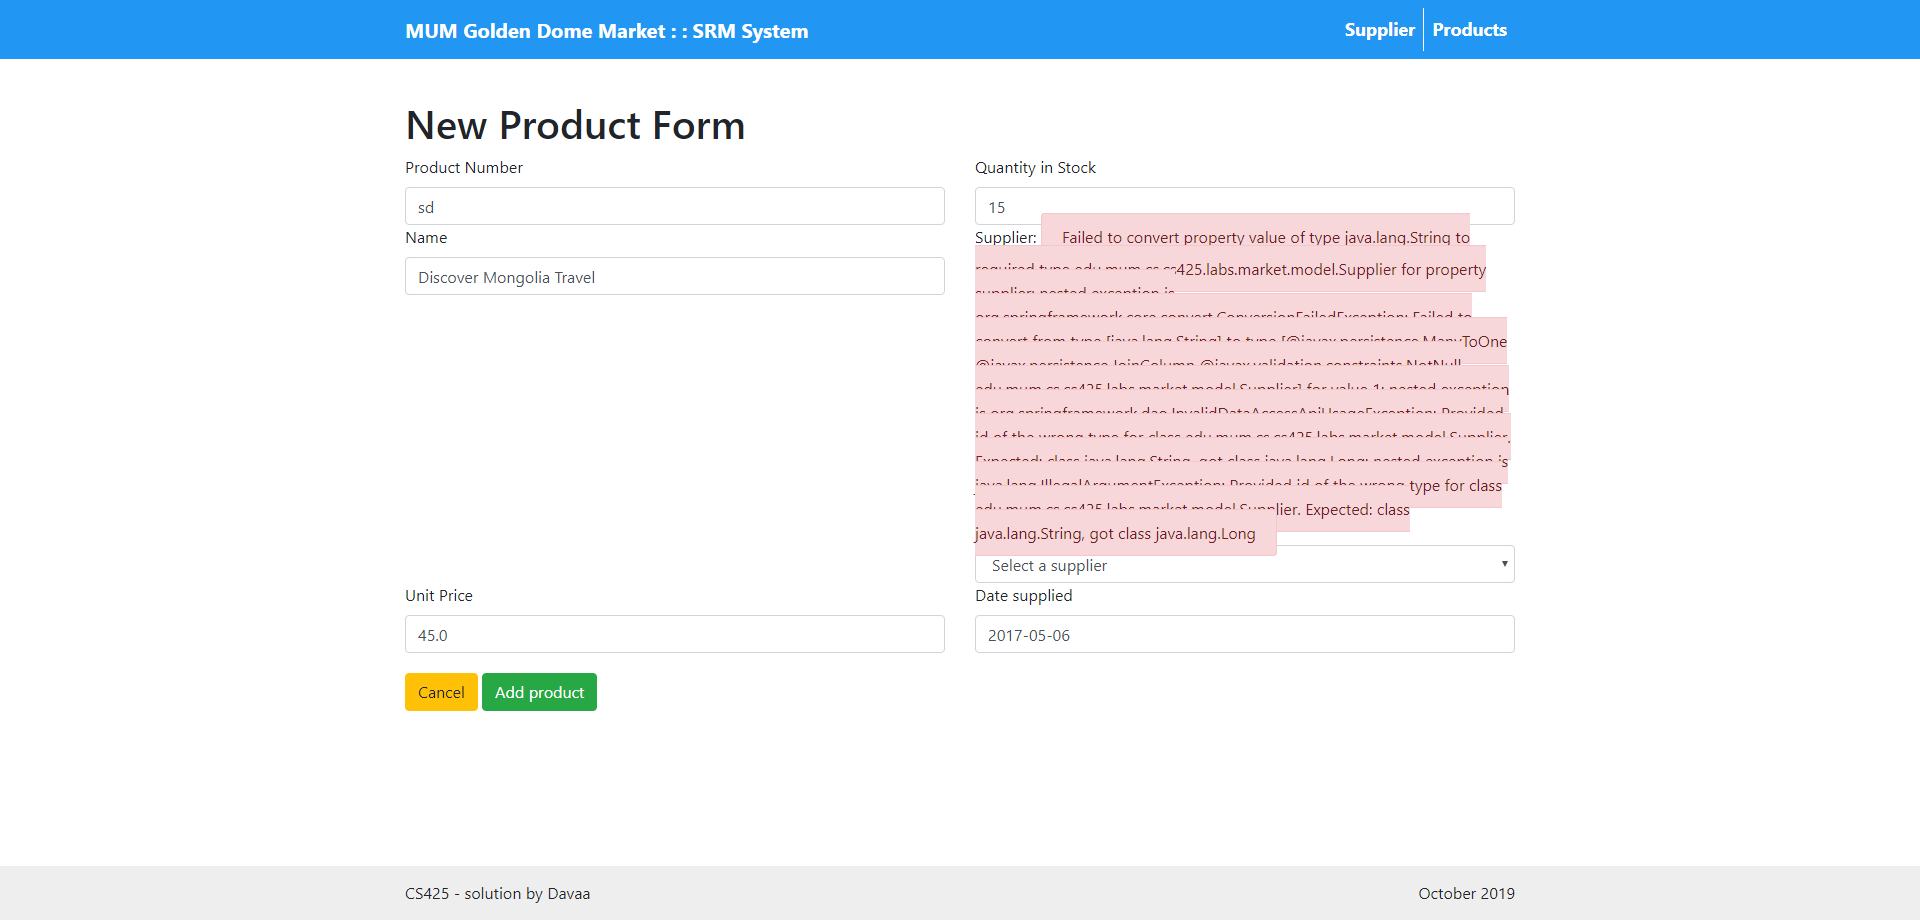
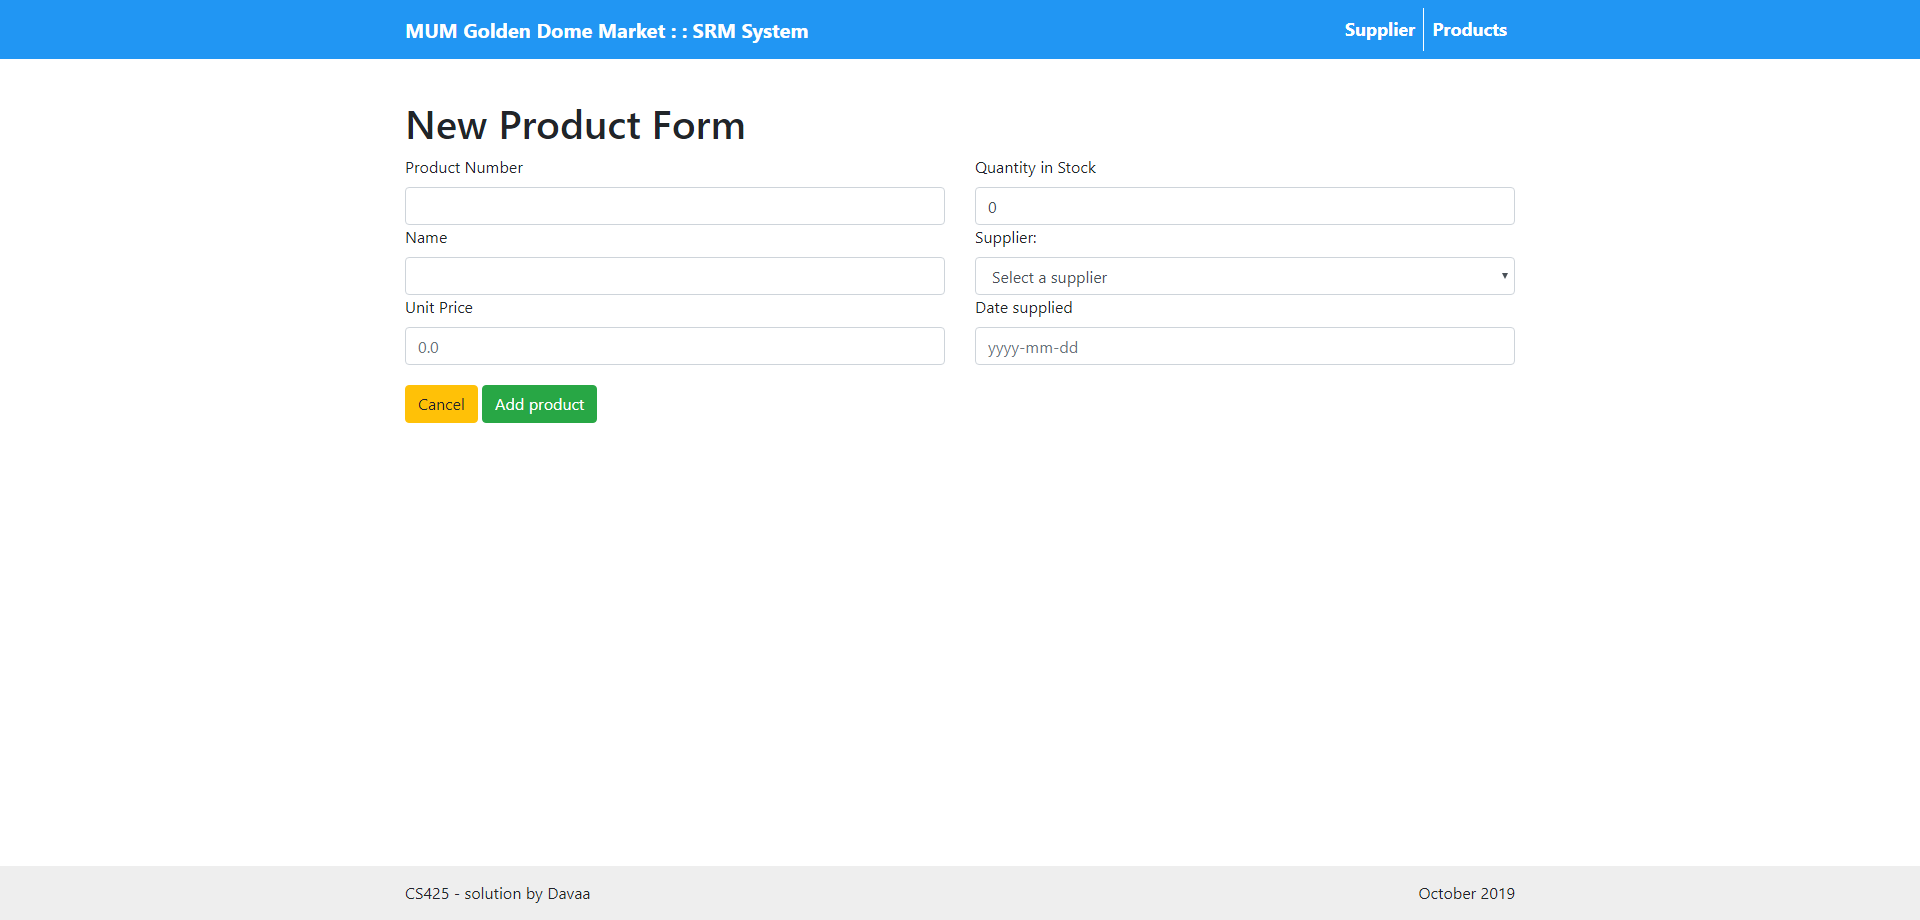
Product add bug fixed

diff --git a/src/main/resources/templates/product/new.html b/src/main/resources/templates/product/new.html
@@ -15,48 +15,54 @@
 			<fieldset>
 				<div class="row">
 					<div class="col-md-6">
-						<label for = "productNumber">Product Number</label>
-						<span th:if="${#fields.hasErrors('productNumber')}" th:errors="*{productNumber}"
-                                  class="alert alert-danger"></span>
+						<label for = "productNumber">Product Number</label>						
 						<input name = "productNumber" type="text" class="form-control"  th:value="${product.productNumber}">
+						<span th:if="${#fields.hasErrors('productNumber')}" th:errors="*{productNumber}"
+                                  class="error"></span>
 					</div>
 					<div class="col-md-6">
 						<label for = "quantity">Quantity in Stock</label>
-						<span th:if="${#fields.hasErrors('quantity')}" th:errors="*{quantity}"
-                                  class="alert alert-danger"></span>
 						<input name = "quantity" type="text" class="form-control" th:value="${product.quantity}">
+						<span th:if="${#fields.hasErrors('quantity')}" th:errors="*{quantity}"
+                                  class="error"></span>
 					</div>
 				</div>
 				<div class="row">
 					<div class="col-md-6">
 						<label for = "name">Name</label>
-						<span th:if="${#fields.hasErrors('name')}" th:errors="*{name}"
-                                  class="alert alert-danger"></span>
+						
 						<input name = "name" type="text" class="form-control" th:value="${product.name}">
+						<span th:if="${#fields.hasErrors('name')}" th:errors="*{name}"
+                                  class="error"></span>
 					</div>
 					<div class="col-md-6">
 					
                          <label for="supplier">Supplier:</label>
-                         <span th:if="${#fields.hasErrors('supplier')}" th:errors="*{supplier}"
-                               class="alert alert-danger"></span>
-                         <select name="supplier" id="supplier" class="form-control" required="required">
+                         
+                         <select name="supplier" id="supplier" 
+                         	class="form-control" required="required">
                              <option value="">Select a supplier</option>
-                             <option th:each="supplier : ${suppliers}" th:value="${supplier.supplierId}" th:text="${supplier.name}"></option>
+                             <option th:each="supplier : ${suppliers}" 
+	                             th:value="${supplier.supplierId}" 
+	                             th:text="${supplier.name}">
+	                         </option>
                          </select>
+                         <span th:if="${#fields.hasErrors('supplier')}" th:errors="*{supplier}"
+                               class="error"></span>
                      </div>
 				</div>
 				<div class="row">
 					<div class="col-md-6">
 						<label for = "unitprice">Unit Price</label>
-						<span th:if="${#fields.hasErrors('unitprice')}" th:errors="*{unitprice}"
-                                  class="alert alert-danger"></span>
 						<input name = "unitprice" type="text" class="form-control" placeholder = "0.0"  th:value="${product.unitprice}">
+						<span th:if="${#fields.hasErrors('unitprice')}" th:errors="*{unitprice}"
+                                  class="error"></span>
 					</div>
 					<div class="col-md-6">
-						<label for = "dateSupplied">Date supplied</label>
-						<span th:if="${#fields.hasErrors('dateSupplied')}" th:errors="*{dateSupplied}"
-                                  class="alert alert-danger"></span>
+						<label for = "dateSupplied">Date supplied</label>						
 						<input name = "dateSupplied" type="text" class="form-control" placeholder="yyyy-mm-dd"  th:value="${product.dateSupplied}">
+						<span th:if="${#fields.hasErrors('dateSupplied')}" th:errors="*{dateSupplied}"
+                                  class="error"></span>
 					</div>
 				</div>
 				<div class="row" style="margin-top:20px;">

diff --git a/src/main/resources/static/css/main.css b/src/main/resources/static/css/main.css
@@ -1,21 +1,30 @@
+.navbar-light .navbar-nav .nav-link {
+	color: #fff;
+	font-size: 18px;
+}
 
-	.navbar-light .navbar-nav .nav-link{
-		color:#fff;
-		font-size:18px;
-	}
-	.navbar-light .navbar-brand {
-	   color: #fff;
-	}
-	.mb40{
-		margin-bottom:40px;
-	}
-	.br{
-		border-right:1px solid #fff;
-	}
-	footer{
-	    background: #eee;
-    padding: 15px 0;
-    margin-top: 80px;
-    position: fixed;
-    bottom: 0;
-    width: 100%;}
+.navbar-light .navbar-brand {
+	color: #fff;
+}
+
+.mb40 {
+	margin-bottom: 40px;
+}
+
+.br {
+	border-right: 1px solid #fff;
+}
+
+footer {
+	background: #eee;
+	padding: 15px 0;
+	margin-top: 80px;
+	position: fixed;
+	bottom: 0;
+	width: 100%;
+}
+
+.error {
+	color: #ff0000cc;
+	font-style: italic;
+}

diff --git a/src/main/resources/templates/product/list.html b/src/main/resources/templates/product/list.html
@@ -34,7 +34,8 @@
 						<td scope = "row" th:text = "${obj.productNumber}"></td>
 						<td scope = "row" th:text = "${obj.name}"></td>
 						<td scope = "row" th:text = "${obj.unitprice}"></td>
-						<td scope = "row" th:text = "${obj.supplier}"></td>
+						<td scope = "row" th:text = "${obj.quantity}"></td>
+						<td scope = "row" th:text = "${obj.supplier.name}"></td>
 						<td scope = "row" th:text = "${obj.dateSupplied}"></td>
 					</tr>
 				</tbody>

diff --git a/src/main/java/edu/mum/cs/cs425/labs/market/model/Product.java b/src/main/java/edu/mum/cs/cs425/labs/market/model/Product.java
@@ -14,6 +14,7 @@ import javax.persistence.Table;
 import javax.validation.constraints.Digits;
 import javax.validation.constraints.NotBlank;
 import javax.validation.constraints.NotNull;
+import javax.validation.constraints.Pattern;
 import javax.validation.constraints.PositiveOrZero;
 
 import org.springframework.format.annotation.DateTimeFormat;
@@ -36,6 +37,7 @@ public class Product {
 	@NotNull(message = "* Quantity in stock is required")
     @Digits(integer = 9, fraction = 0, message = "* Quantity must be a positive, integral value")
     @PositiveOrZero(message = "* Quantity must be a positive, integral value")
+	//@Pattern(regexp= "^[0-9]*$", message = "* Quantity must be a positive, integral value")
 	private int quantity;
 	
 	@NotNull(message = "* Unit Price is required")
@@ -47,7 +49,7 @@ public class Product {
 	private LocalDate dateSupplied;
 
 	@ManyToOne()
-	@JoinColumn(name = "supplierId", nullable = false)
+	@JoinColumn(name = "supplier_id", nullable = false)
 	@NotNull(message = "* Supplier is required")
 	private Supplier supplier;
 	

diff --git a/src/main/java/edu/mum/cs/cs425/labs/market/model/Supplier.java b/src/main/java/edu/mum/cs/cs425/labs/market/model/Supplier.java
@@ -23,7 +23,7 @@ import javax.validation.constraints.Pattern;
 public class Supplier {
 	@Id
 	@GeneratedValue(strategy = GenerationType.IDENTITY)
-	private String supplierId;
+	private Long supplierId;
 	
 	@NotNull(message = "* Required")
 	@Digits(integer = 9, fraction = 0, message = "* Supplier number must be numeric; and a positive, integral value")
@@ -45,12 +45,27 @@ public class Supplier {
 		// TODO Auto-generated constructor stub
 	}
 	
-	public String getSupplierId() {
+
+	public Long getSupplierId() {
 		return supplierId;
 	}
-	public void setSupplierId(String supplierId) {
+
+
+	public void setSupplierId(Long supplierId) {
 		this.supplierId = supplierId;
 	}
+
+
+	public List<Product> getProducts() {
+		return products;
+	}
+
+
+	public void setProducts(List<Product> products) {
+		this.products = products;
+	}
+
+
 	public String getSupplierNumber() {
 		return supplierNumber;
 	}
